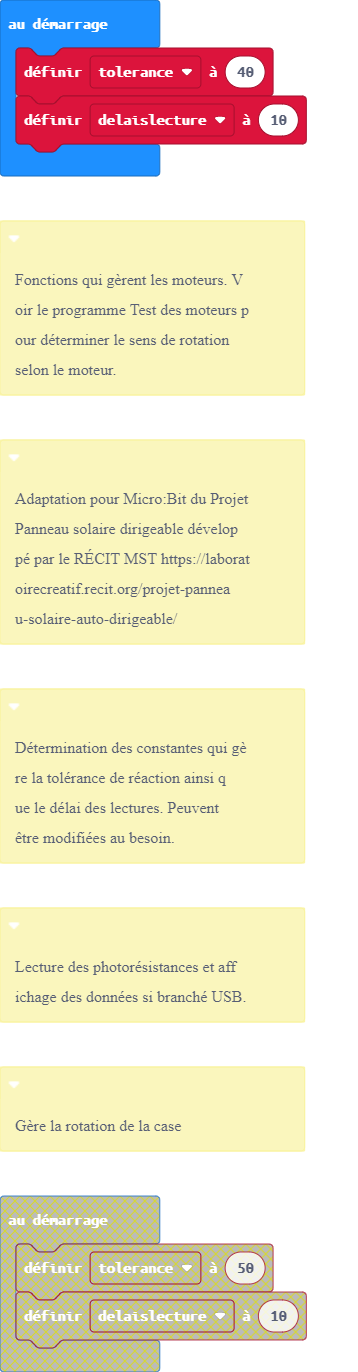
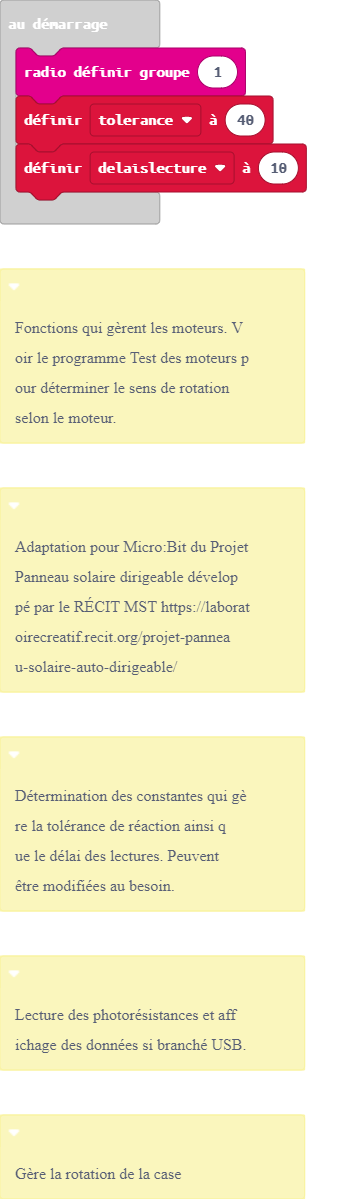
Mise à jour main.blocks, main.ts

diff --git a/main.ts b/main.ts
@@ -36,6 +36,7 @@ let MoyenneBas = 0
 let photoBas = 0
 let photohg = 0
 let photohd = 0
+radio.setGroup(1)
 let tolerance = 40
 let delaislecture = 10
 basic.forever(function () {
